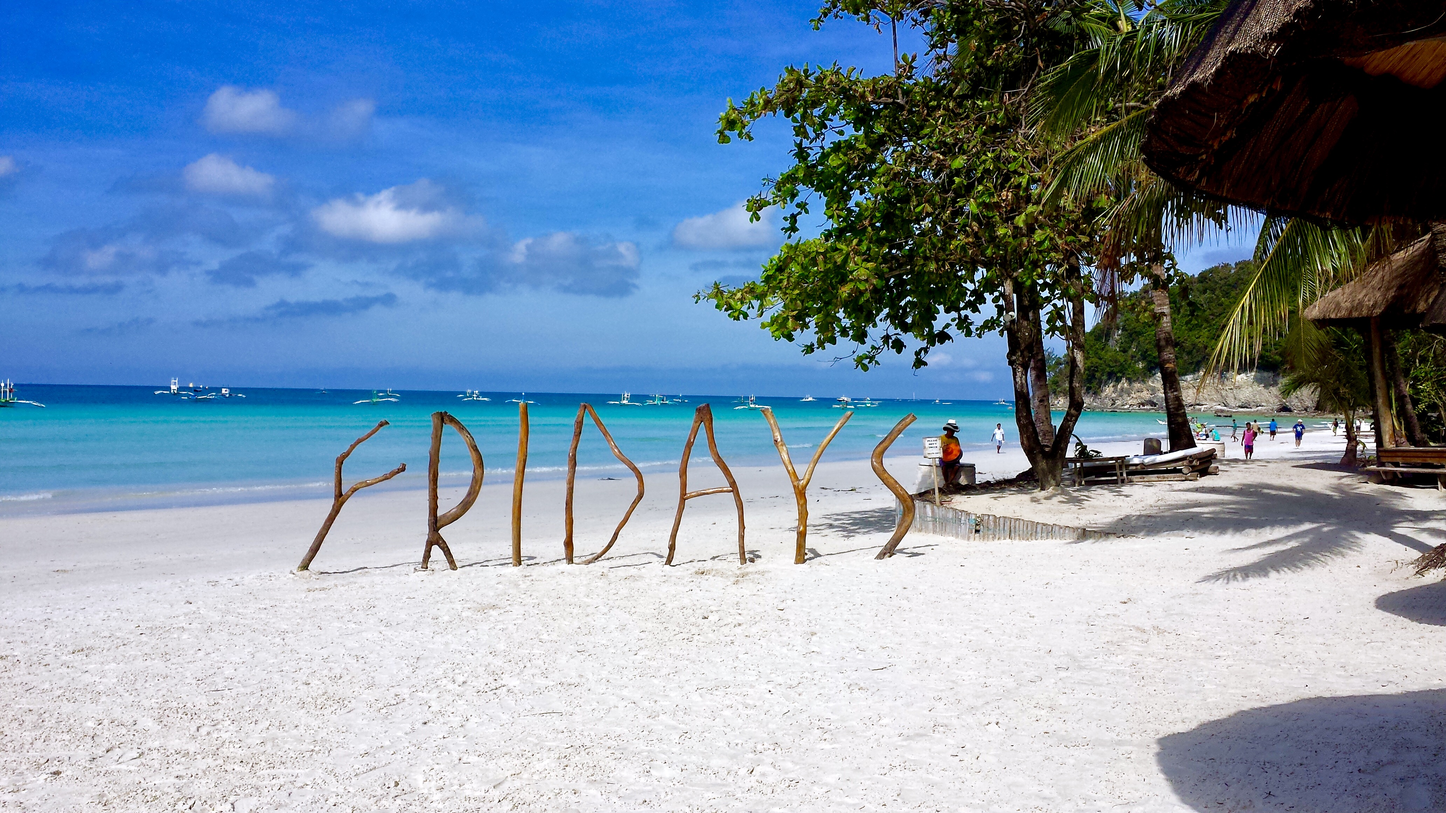
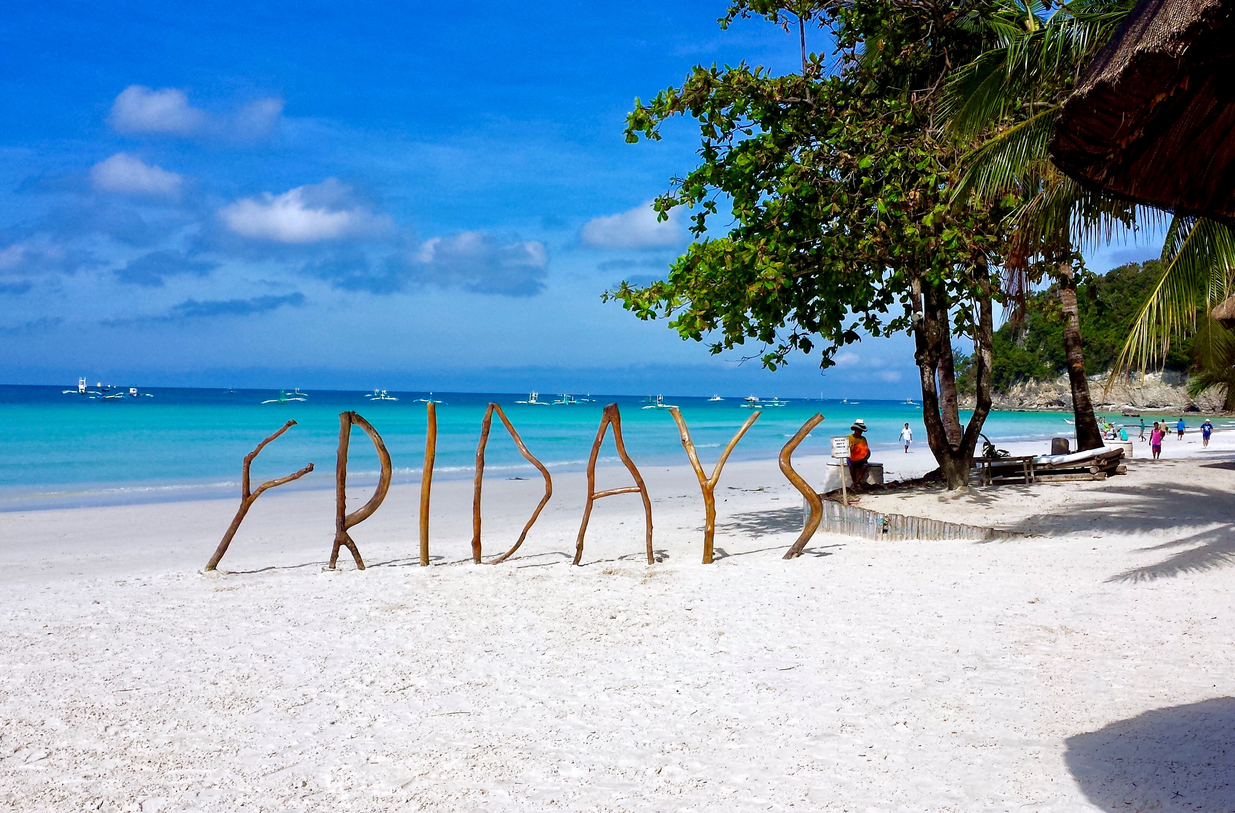
fix: slide in hotel

diff --git a/index.html b/index.html
@@ -139,19 +139,39 @@
               <div class="swiper-wrapper">
                 <!-- Slides -->
                 <div class="swiper-slide">
-                  <img src="img/slides/slide1.jpg" alt="slide1" />
+                  <img
+                    src="img/slides/slide1.jpg"
+                    alt="slide1"
+                    class="swiper-item"
+                  />
                 </div>
                 <div class="swiper-slide">
-                  <img src="img/slides/slide2.jpg" alt="slide2" />
+                  <img
+                    src="img/slides/slide2.jpg"
+                    alt="slide2"
+                    class="swiper-item"
+                  />
                 </div>
                 <div class="swiper-slide">
-                  <img src="img/slides/slide3.jpg" alt="slide3" />
+                  <img
+                    src="img/slides/slide3.jpg"
+                    alt="slide3"
+                    class="swiper-item"
+                  />
                 </div>
                 <div class="swiper-slide">
-                  <img src="img/slides/slide4.jpg" alt="slide4" />
+                  <img
+                    src="img/slides/slide4.jpg"
+                    alt="slide4"
+                    class="swiper-item"
+                  />
                 </div>
                 <div class="swiper-slide">
-                  <img src="img/slides/slide5.jpg" alt="slide5" />
+                  <img
+                    src="img/slides/slide5.jpg"
+                    alt="slide5"
+                    class="swiper-item"
+                  />
                 </div>
               </div>
 

diff --git a/sass/blocks/_hotel.sass b/sass/blocks/_hotel.sass
@@ -56,6 +56,8 @@
   height: 450px
   position: relative
   border-radius: 8px
+  &-item
+    object-fit: cover
   &::after
     content: ''
     width: 100%
@@ -64,6 +66,7 @@
     top: 0
     background: linear-gradient(180deg, rgba(0, 122, 223, 0.48) 0%, rgba(255, 255, 255, 0.128) 100%)
     z-index: 10
+
 .slider
   width: 728px
   &-button

diff --git a/css/style.css b/css/style.css
@@ -605,6 +605,11 @@ img {
   border-radius: 8px;
 }
 
+.swiper-item {
+  -o-object-fit: cover;
+     object-fit: cover;
+}
+
 .swiper::after {
   content: '';
   width: 100%;
